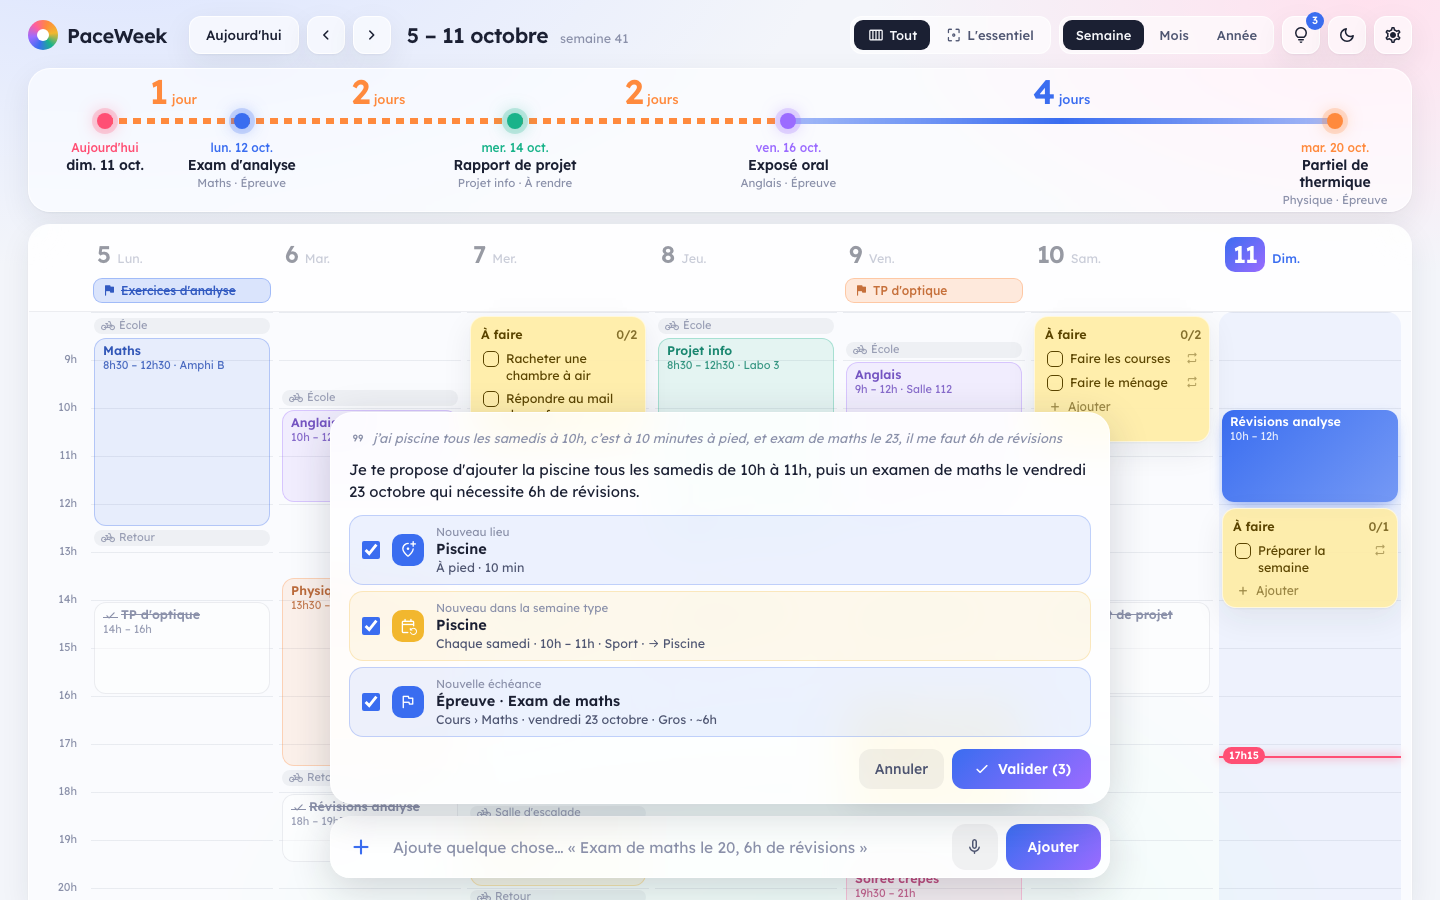
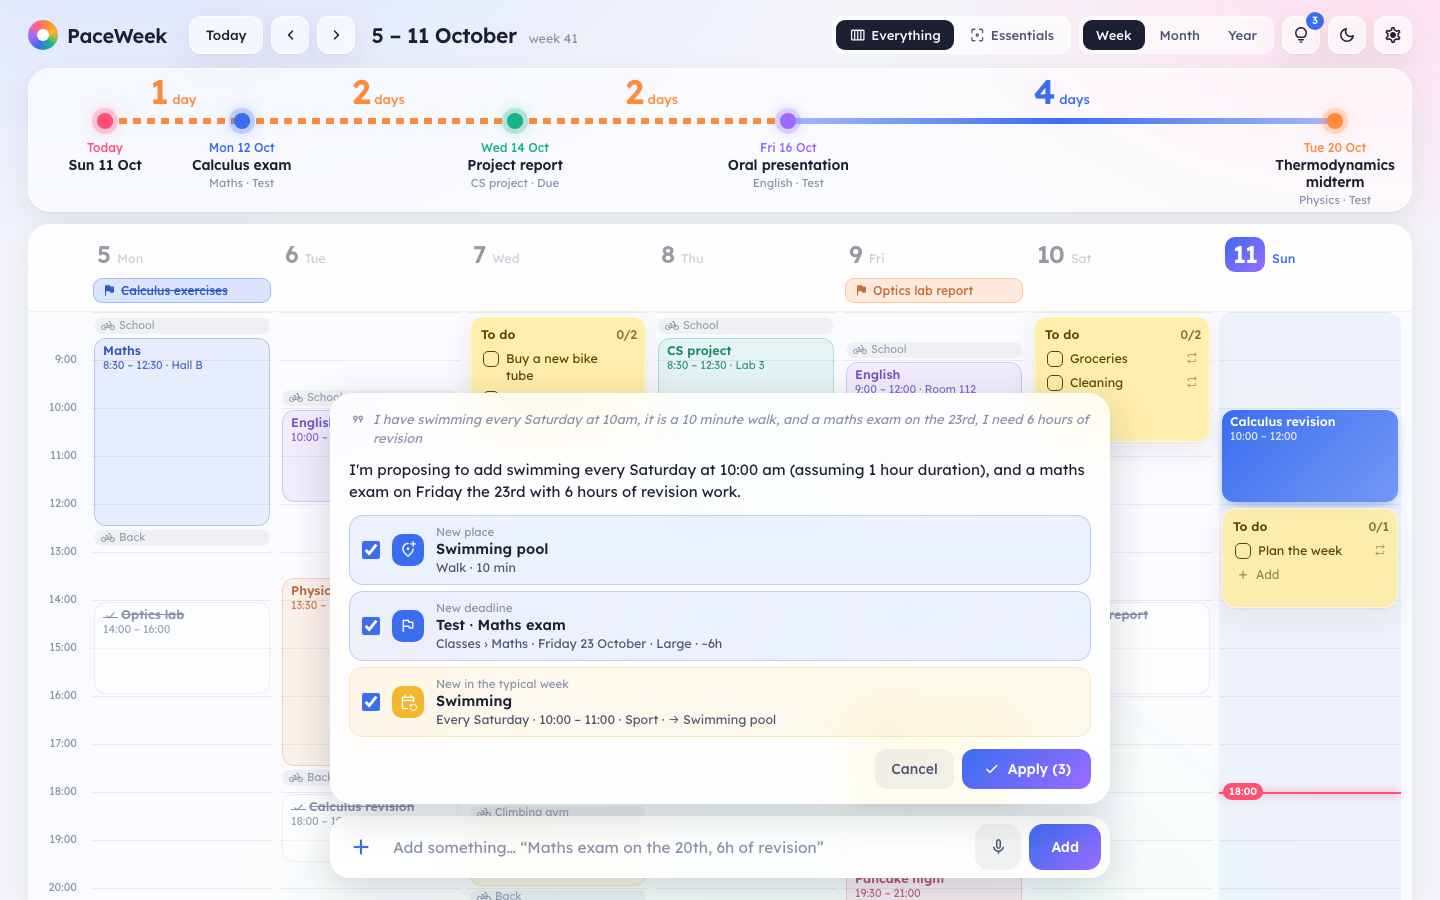
English presentation, terms and screenshots

diff --git a/LICENSE.md b/LICENSE.md
@@ -1,51 +1,43 @@
-# Licence d'utilisation de PaceWeek
-
-© 2026 Thomas Sager. Tous droits réservés.
-
-PaceWeek (l'application, ses fichiers d'installation, son nom, son logo, ses textes et ses images, ensemble « le Logiciel ») est la propriété exclusive de Thomas Sager (« l'Auteur »). Il est protégé par le droit d'auteur. Télécharger ou utiliser le Logiciel vaut acceptation des conditions ci-dessous.
-
-## 1. Ce que tu peux faire
-
-L'Auteur t'accorde, gratuitement, un droit personnel, non exclusif et non transférable :
-
-- de télécharger le Logiciel depuis ce dépôt ;
-- de l'installer et de l'utiliser sur tes propres appareils, **pour un usage personnel et non commercial**.
-
-## 2. Ce que tu ne peux pas faire
-
-Sauf accord écrit de l'Auteur, il est interdit :
-
-- de vendre, louer, prêter, céder ou monnayer le Logiciel, en tout ou en partie ;
-- de le redistribuer ou de le mettre à disposition d'autres personnes, sur un site, un dépôt, une boutique d'applications ou par tout autre moyen. Pour le partager, partage le lien de ce dépôt ;
-- de le modifier, de l'adapter, de le traduire ou d'en créer une œuvre dérivée ;
-- de le décompiler, de le désassembler ou d'en extraire le code, sauf dans les cas strictement autorisés par la loi ;
-- de retirer ou de modifier les mentions de propriété ou de droit d'auteur ;
-- d'utiliser le nom « PaceWeek » ou son logo pour un autre produit ou service.
-
-## 3. Tes données
-
-Tes données restent sur ton appareil et t'appartiennent. L'Auteur n'y a pas accès. Si tu choisis une intelligence artificielle en ligne, ce que tu lui envoies est soumis aux conditions de ce service.
-
-## 4. Versions futures
-
-Ces conditions s'appliquent aux versions que tu as téléchargées. L'Auteur peut proposer les versions futures, ou certaines fonctionnalités, sous d'autres conditions, y compris payantes. L'Auteur peut aussi arrêter la diffusion du Logiciel à tout moment.
-
-## 5. Absence de garantie
-
-Le Logiciel est fourni **« tel quel »**, sans garantie d'aucune sorte. Dans les limites permises par la loi, l'Auteur n'est pas responsable des dommages liés à son utilisation, y compris la perte de données. Pense à faire des sauvegardes.
-
-## 6. Fin du droit d'utilisation
-
-Le droit d'utilisation prend fin automatiquement si tu ne respectes pas ces conditions. Tu dois alors cesser d'utiliser le Logiciel et le supprimer.
-
-## 7. Droit applicable
-
-Ces conditions sont régies par le droit français.
-
----
-
-## PaceWeek License (English summary)
+# PaceWeek License
 
 © 2026 Thomas Sager. All rights reserved.
 
-PaceWeek is proprietary software. You may download it from this repository and use it free of charge on your own devices for **personal, non-commercial use only**. Without the author's written permission, you may not sell, rent, redistribute, modify, decompile (except where the law expressly allows it), or create derivative works from it, nor use the PaceWeek name or logo. Future versions may be offered under different terms, including paid ones. The software is provided "as is", without warranty of any kind. In case of conflict, the French version above prevails. These terms are governed by French law.
+PaceWeek (the application, its installers, its name, its logo, its texts and its images, together "the Software") is the exclusive property of Thomas Sager ("the Author") and is protected by copyright. By downloading or using the Software, you accept the terms below.
+
+## 1. What you may do
+
+The Author grants you, free of charge, a personal, non-exclusive and non-transferable right to:
+
+- download the Software from this repository;
+- install and use it on your own devices, **for personal, non-commercial use**.
+
+## 2. What you may not do
+
+Unless the Author agrees in writing, you may not:
+
+- sell, rent, lend, transfer or otherwise make money from the Software, in whole or in part;
+- redistribute it or make it available to others, on a website, a repository, an app store or by any other means. To share it, share the link to this repository;
+- modify, adapt or translate it, or create derivative works from it;
+- decompile, disassemble or extract its code, except where the law expressly allows it;
+- remove or alter any ownership or copyright notice;
+- use the name "PaceWeek" or its logo for another product or service.
+
+## 3. Your data
+
+Your data stays on your device and belongs to you. The Author has no access to it. If you choose an online AI service, what you send to it is subject to that service's terms.
+
+## 4. Future versions
+
+These terms apply to the versions you have downloaded. The Author may offer future versions, or some features, under different terms, including paid ones. The Author may also stop distributing the Software at any time.
+
+## 5. No warranty
+
+The Software is provided **"as is"**, without warranty of any kind. To the extent permitted by law, the Author is not liable for any damage arising from its use, including loss of data. Keep backups.
+
+## 6. Termination
+
+Your right to use the Software ends automatically if you do not comply with these terms. You must then stop using the Software and delete it.
+
+## 7. Governing law
+
+These terms are governed by French law.

diff --git a/README.md b/README.md
@@ -1,40 +1,41 @@
 # PaceWeek
 
-**Ta semaine en un coup d'œil, et une barre où il suffit de dire ce que tu as à faire.**
+**Your week at a glance, and a bar where you just say what you need to do.**
 
-PaceWeek est un planning personnel pour Mac, Windows et Linux. En haut, une frise montre tes prochaines échéances et le nombre de jours qui les séparent. En dessous, ta semaine : cours, travail, sport, trajets, blocs de révision et petites choses à cocher.
+PaceWeek is a personal weekly planner for Mac, Windows and Linux. At the top, a timeline shows your upcoming deadlines and how many days lie between them. Below it, your week: classes, work, sport, travel, study sessions and small things to tick off.
 
-![La semaine](images/week.png)
+![The week](images/week.png)
 
-## Comment ça marche
+## How it works
 
-1. **Tu remplis ta semaine type** au premier lancement : cours, travail, sport… Elle revient toute seule chaque semaine. Tu peux aussi importer un calendrier `.ics`.
-2. **Tu ajoutes tes échéances** : rendus, examens, objectifs. La frise les aligne et montre les périodes serrées.
-3. **Tu dis ce que tu as à faire**, à l'écrit ou à la voix : *« Exam de maths le 23, il me faut 6 h de révisions »*. L'appli propose des blocs de travail dans tes créneaux libres, et te montre toujours ce qu'elle a compris avant de changer quoi que ce soit.
-4. **Les trajets sont comptés pour toi** : chaque lieu a son moyen de transport et sa durée, et l'appli place l'aller et le retour.
+1. **Set up your typical week** on first launch: classes, work hours, sport… It comes back every week on its own. You can also import an `.ics` calendar.
+2. **Add your deadlines**: assignments, exams, goals. The timeline lines them up and makes busy stretches stand out.
+3. **Say what you need to do**, typed or spoken: *"Maths exam on the 23rd, I need 6 hours of revision."* PaceWeek suggests study sessions in your free time, and always shows you what it understood before changing anything.
+4. **Travel time is handled for you**: each place has its own way of getting there and duration, and PaceWeek adds the trip there and back.
 
-![L'assistant](images/assistant.png)
+![The assistant](images/assistant.png)
 
-Tes données restent **sur ton ordinateur**. La dictée est transcrite sur ton ordinateur, et l'assistant fonctionne avec l'IA de ton choix (Claude, ChatGPT, Gemini, ou une IA locale), ou sans IA du tout.
+<p>
+  <img src="images/week-dark.png" alt="Essentials mode, dark theme" width="49%">
+  <img src="images/month.png" alt="Month view" width="49%">
+</p>
 
-## Télécharger
+Your data stays **on your computer**. Dictation is transcribed on your computer too, and the assistant works with the AI of your choice (Claude, ChatGPT, Gemini, or a local model), or with no AI at all. Available in English and French.
 
-Prends la dernière version dans [**Releases**](../../releases/latest) :
+## Download
 
-- **Mac** (Apple Silicon et Intel) : le `.dmg`. Glisse PaceWeek dans Applications. Au premier lancement, fais **clic droit → Ouvrir**.
-- **Windows** : le `-setup.exe`. Si Windows affiche un avertissement, clique sur « Informations complémentaires » puis « Exécuter quand même ».
-- **Linux** : l'`.AppImage` (rends-la exécutable puis lance-la) ou le `.deb`.
+Get the latest version from [**Releases**](../../releases/latest):
 
-Ensuite, l'appli te propose elle-même les nouvelles versions. Tes données ne sont pas touchées.
+- **Mac** (Apple Silicon and Intel): the `.dmg`. Drag PaceWeek into Applications. The first time, **right-click → Open**. If macOS still blocks it, go to **System Settings → Privacy & Security** and click **Open Anyway**.
+- **Windows**: the `-setup.exe`. If Windows shows a warning, click "More info", then "Run anyway".
+- **Linux**: the `.AppImage` (make it executable, then run it) or the `.deb`.
 
-## Conditions
+After that, PaceWeek offers new versions by itself. Your data is never touched by an update.
 
-PaceWeek est **gratuit pour un usage personnel**. Il reste la propriété de son auteur : il est interdit de le vendre, de le modifier ou de le redistribuer. Les conditions complètes sont dans [LICENSE.md](LICENSE.md).
+## Terms
 
-Ce dépôt ne contient que les fichiers d'installation. Le code source n'est pas public.
+PaceWeek is **free for personal use**. It remains the property of its author: selling, modifying or redistributing it is not allowed. The full terms are in [LICENSE.md](LICENSE.md).
 
----
+This repository only holds the installers. The source code is not public.
 
-**English.** PaceWeek is a personal weekly planner for Mac, Windows and Linux: a timeline of your upcoming deadlines, your weekly routine, travel times, and a bar where you type or say what you need to do. It is free for personal use; selling, modifying or redistributing it is not allowed. See [LICENSE.md](LICENSE.md).
-
-© 2026 Thomas Sager. Tous droits réservés.
+© 2026 Thomas Sager. All rights reserved.
